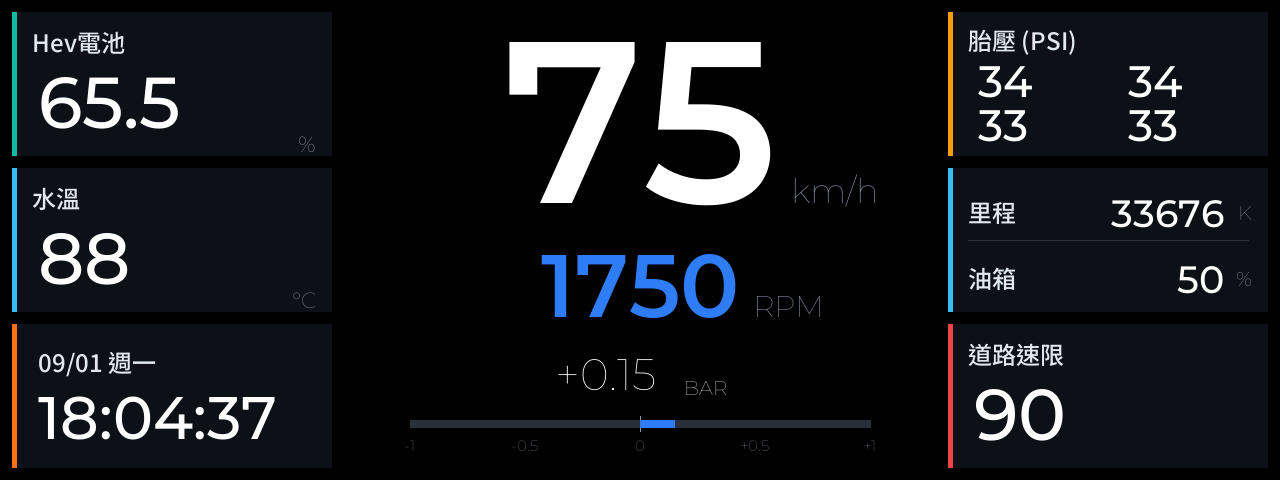
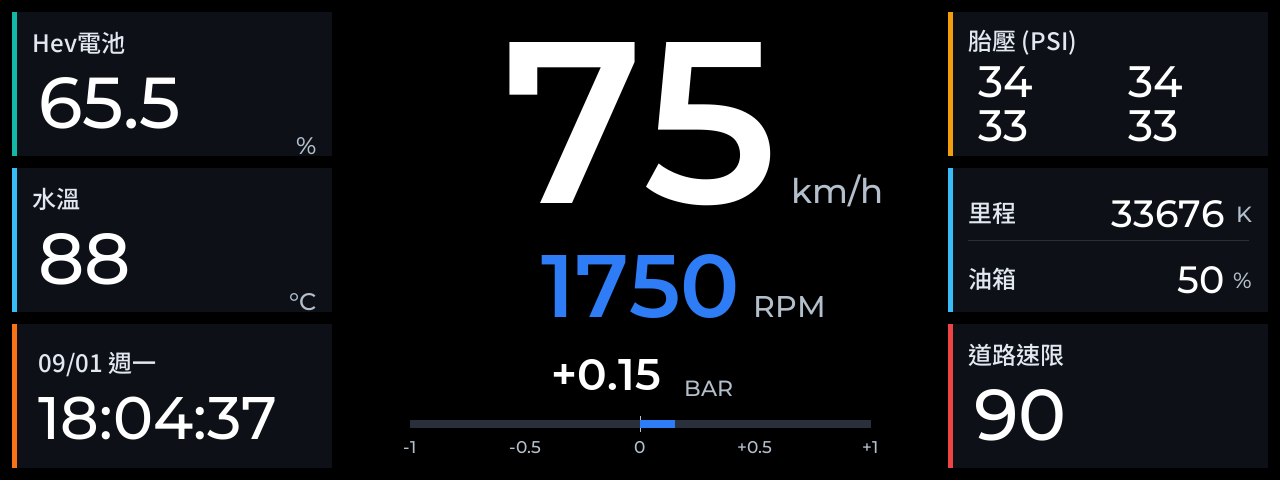
style: 提高單位與刻度的可讀性
單位原先是 #8B95A5（對黑底 6.9:1）且用 Regular 字重，在黑底上偏暗，
車上不好讀。三個層面一起處理：

- 顏色提亮為 #B4BFCC（對比 6.9:1 -> 11.3:1）
- 字重 Regular -> Medium（小字最吃字重，光提亮效果有限）
- 最小的幾個放大：增壓刻度 15->17、BAR/K/% 20->22、卡片 %/°C 22->24

連帶修正：增壓數值原為 Regular，改完之後反而顯得比旁邊的 BAR 還淡。
它與時速/轉速同為中央區數值，字重應一致，改為 SemiBold。

EV 圖示的涵蓋範圍改用實際渲染的字型計算（原本用 F_NUM，實際渲染
已換成 F_UNIT，寬度不同）。

diff --git a/esp32_display/dwin_dashboard/tools/gen_background.py b/esp32_display/dwin_dashboard/tools/gen_background.py
@@ -24,7 +24,7 @@ BG      = (0x00, 0x00, 0x00)
 CARD    = (0x0D, 0x11, 0x17)
 TEXT    = (0xFF, 0xFF, 0xFF)
 LABEL   = (0xE2, 0xE8, 0xF0)
-UNIT    = (0x8B, 0x95, 0xA5)
+UNIT    = (0xB4, 0xBF, 0xCC)   # 單位/刻度。原為 0x8B95A5，在黑底上偏暗
 BLUE    = (0x2E, 0x7D, 0xF7)
 TEAL    = (0x14, 0xB8, 0xA6)
 CYAN    = (0x38, 0xBD, 0xF8)
@@ -78,6 +78,8 @@ F_NUM    = lambda s: f("Montserrat.ttf", s)          # 單位等次要文字
 F_NUM_MD = lambda s: f("Montserrat-Medium.ttf", s)   # 卡片數值
 F_NUM_SB = lambda s: f("Montserrat-SemiBold.ttf", s) # 中央區時速/轉速/增壓
 
+F_UNIT   = lambda s: f("Montserrat-Medium.ttf", s)   # 單位與刻度
+
 def tw(font, txt):
     b = font.getbbox(txt)
     return b[2] - b[0]
@@ -90,7 +92,7 @@ RPM_UNIT_X   = RPM_RIGHT + UNIT_GAP
 
 # EV 圖示需涵蓋轉速最寬情況與單位
 _ev_left  = RPM_RIGHT - tw(F_NUM_SB(88), "8888") - 20
-_ev_right = RPM_UNIT_X + tw(F_NUM(30), "RPM") + 20
+_ev_right = RPM_UNIT_X + tw(F_UNIT(30), "RPM") + 20
 EV_X, EV_Y = _ev_left, 245
 EV_W, EV_H = _ev_right - _ev_left, 90
 
@@ -106,11 +108,11 @@ def draw_static(d):
     # 左欄
     card(d, LEFT_X, ROW_Y[0], COL_W, ROW_H, TEAL)
     text(d, (LEFT_X + 20, ROW_Y[0] + 12), "Hev電池", F_TC(24), LABEL)
-    text(d, (LEFT_X + COL_W - 16, ROW_Y[0] + ROW_H - 26), "%", F_NUM(22), UNIT, "ra")
+    text(d, (LEFT_X + COL_W - 16, ROW_Y[0] + ROW_H - 26), "%", F_UNIT(24), UNIT, "ra")
 
     card(d, LEFT_X, ROW_Y[1], COL_W, ROW_H, CYAN)
     text(d, (LEFT_X + 20, ROW_Y[1] + 12), "水溫", F_TC(24), LABEL)
-    text(d, (LEFT_X + COL_W - 16, ROW_Y[1] + ROW_H - 26), "°C", F_NUM(22), UNIT, "ra")
+    text(d, (LEFT_X + COL_W - 16, ROW_Y[1] + ROW_H - 26), "°C", F_UNIT(24), UNIT, "ra")
 
     card(d, LEFT_X, ROW_Y[2], COL_W, ROW_H, AMBER)
 
@@ -120,17 +122,17 @@ def draw_static(d):
 
     card(d, RIGHT_X, ROW_Y[1], COL_W, ROW_H, CYAN)
     text(d, (RIGHT_X + 20, ROW_Y[1] + 26), "里程", F_TC(24), LABEL)
-    text(d, (RIGHT_X + COL_W - 16, ROW_Y[1] + 32), "K", F_NUM(20), UNIT, "ra")
+    text(d, (RIGHT_X + COL_W - 16, ROW_Y[1] + 32), "K", F_UNIT(22), UNIT, "ra")
     d.line([RIGHT_X + 20, ROW_Y[1] + 72, RIGHT_X + COL_W - 20, ROW_Y[1] + 72], fill=DIVIDER)
     text(d, (RIGHT_X + 20, ROW_Y[1] + 92), "油箱", F_TC(24), LABEL)
-    text(d, (RIGHT_X + COL_W - 16, ROW_Y[1] + 98), "%", F_NUM(20), UNIT, "ra")
+    text(d, (RIGHT_X + COL_W - 16, ROW_Y[1] + 98), "%", F_UNIT(22), UNIT, "ra")
 
     card(d, RIGHT_X, ROW_Y[2], COL_W, ROW_H, RED)
     text(d, (RIGHT_X + 20, ROW_Y[2] + 12), "道路速限", F_TC(24), LABEL)
 
     # 中央區的固定文字：單位貼在各自數值的右下角，與數值基線對齊
-    text(d, (SPEED_UNIT_X, SPEED_BASE), "km/h", F_NUM(34), UNIT, "ls")
-    text(d, (RPM_UNIT_X, RPM_BASE), "RPM", F_NUM(30), UNIT, "ls")
+    text(d, (SPEED_UNIT_X, SPEED_BASE), "km/h", F_UNIT(34), UNIT, "ls")
+    text(d, (RPM_UNIT_X, RPM_BASE), "RPM", F_UNIT(30), UNIT, "ls")
 
     # 增壓：軌道、中線、刻度
     d.rectangle([TURBO_BAR_X, TURBO_BAR_Y,
@@ -138,7 +140,7 @@ def draw_static(d):
     d.line([CX, TURBO_BAR_Y - 4, CX, TURBO_BAR_Y + 11], fill=UNIT)
     for i, lbl in enumerate(["-1", "-0.5", "0", "+0.5", "+1"]):
         text(d, (TURBO_BAR_X + i * TURBO_BAR_W // 4, TURBO_BAR_Y + 16),
-             lbl, F_NUM(15), UNIT, "ma")
+             lbl, F_UNIT(17), UNIT, "ma")
 
 def draw_dynamic(d):
     """MCU 透過 VP 寫入、由螢幕疊上去的部分。僅供預覽。"""
@@ -163,8 +165,8 @@ def draw_dynamic(d):
     text(d, (SPEED_RIGHT, SPEED_BASE), NOMINAL_SPEED, F_NUM_SB(230), TEXT, "rs")
     text(d, (RPM_RIGHT, RPM_BASE), NOMINAL_RPM, F_NUM_SB(88), BLUE, "rs")
 
-    text(d, (CX - 34, TURBO_CY), "+0.15", F_NUM(44), TEXT, "mm")
-    text(d, (CX + 44, TURBO_CY + 14), "BAR", F_NUM(20), LABEL, "lm")
+    text(d, (CX - 34, TURBO_CY), "+0.15", F_NUM_SB(44), TEXT, "mm")
+    text(d, (CX + 44, TURBO_CY + 14), "BAR", F_UNIT(22), UNIT, "lm")
     d.rectangle([CX, TURBO_BAR_Y, CX + 34, TURBO_BAR_Y + 7], fill=BLUE)
 
 def draw_ev_icon():

diff --git a/esp32_display/dwin_dashboard/README.md b/esp32_display/dwin_dashboard/README.md
@@ -24,7 +24,20 @@ python3 tools/gen_background.py <字型資料夾>
 字型只有產生 PNG 時需要，**螢幕端不需要任何字型檔**：中文全是靜態的
 已畫進背景，動態值全是數字，用螢幕內建的 0# ASCII 字型即可。
 
-字重層次：**中央區 SemiBold**（主角）> **卡片 Medium** > **單位 Regular**。
+字重與明度層次：
+
+| 角色 | 字重 | 顏色 | 對黑底對比 |
+|---|---|---|---|
+| 中央數值（時速/轉速/增壓） | SemiBold | `#FFFFFF` | 21.0:1 |
+| 卡片數值 | Medium | `#FFFFFF` | 21.0:1 |
+| 中文標籤 | Medium | `#E2E8F0` | 17.0:1 |
+| 單位與刻度 | Medium | `#B4BFCC` | 11.3:1 |
+
+單位原先是 `#8B95A5`（6.9:1）且用 Regular 字重，在黑底上偏暗、
+車上不好讀。改為提亮 + Medium + 把最小的幾個放大
+（增壓刻度 15→17、BAR/K/% 20→22、卡片 % 與 °C 22→24）。
+
+小字最吃字重，光提亮顏色效果有限。
 
 Montserrat 與 Noto Sans TC 的官方發布是可變字型，取不到中間字重，
 需以 fonttools 抽出 Medium：
